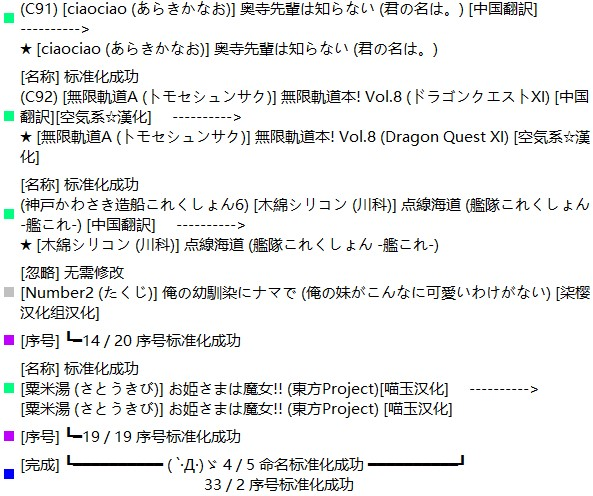
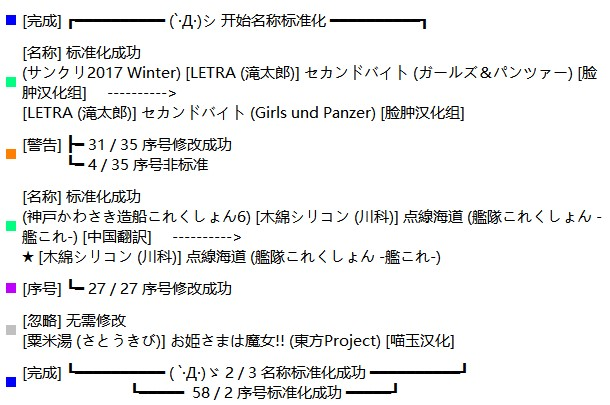
更新文档

Changed region(s): [[0.0, 0.0, 1.0, 1.0], [0.7892, 0.7704, 0.9106, 0.8]]

diff --git a/src/file/standardiser.cpp b/src/file/standardiser.cpp
@@ -138,7 +138,7 @@ void Standardiser::revoke()
             if(successFileCnt>0){
                 successDirFileCnt+=1;
                 successFileCnts+=successFileCnt;
-                filelog = QString::fromLocal8Bit("%3\n         ┗━ %1 / %2 序号撤销成功")
+                filelog = QString::fromLocal8Bit("%3\n           ┗━ %1 / %2 序号撤销成功")
                         .arg(successFileCnt).arg(fileCnt).arg(QFileInfo(originDirs[i]).fileName());
             }
         }
@@ -338,7 +338,7 @@ int Standardiser::fileStandard(const QStringList &files)
         if (warningCnt>0) {
             if(!log.isEmpty()){
                 log.replace(QString::fromLocal8Bit("┗━"),QString::fromLocal8Bit("┣━"));
-                log+="\n                   ";
+                log+="\n           ";
             }
             log += QString::fromLocal8Bit("┗━ %1 / %2 序号非标准")
                     .arg(warningCnt).arg(files.length());

diff --git a/src/QSimpleUpdater/src/Downloader.cpp b/src/QSimpleUpdater/src/Downloader.cpp
@@ -111,8 +111,6 @@ void Downloader::setUrlId (const QString& url)
  */
 void Downloader::startDownload (const QUrl& url)
 {
-    m_downloadDir.mkdir(".");
-
     /* Reset UI */
     m_ui->progressBar->setValue (0);
     m_ui->stopButton->setText (tr ("Stop"));
@@ -188,8 +186,14 @@ void Downloader::finished()
  */
 void Downloader::openDownload()
 {
-    if (!m_fileName.isEmpty())
-        QDesktopServices::openUrl(QUrl::fromLocalFile(m_downloadDir.absolutePath()));
+    if (!m_fileName.isEmpty()){
+        QDesktopServices::openUrl(QUrl(m_downloadDir.absolutePath(), QUrl::TolerantMode));
+//        QString filePath = m_downloadDir.absoluteFilePath( m_fileName);
+//        filePath.replace("/","\\");
+//        QStringList args;
+//        args << "/select," << QDir::toNativeSeparators(filePath);
+//        QProcess::startDetached("explorer", args);
+    }
     else {
         QMessageBox::critical (this,
                                tr ("Error"),

diff --git a/src/QSimpleUpdater/src/QSimpleUpdater.cpp b/src/QSimpleUpdater/src/QSimpleUpdater.cpp
@@ -414,10 +414,10 @@ Updater* QSimpleUpdater::getUpdater (const QString& url) const
         URLS.append (url);
         UPDATERS.append (updater);
 
-        connect (updater, SIGNAL (haveUpdate  ()),
-                 this,    SIGNAL (haveUpdate  ()));
-        connect (updater, SIGNAL (quitNow  ()),
-                 this,    SIGNAL (quitNow  ()));
+        connect (updater, SIGNAL (haveUpdate    ()),
+                 this,    SIGNAL (haveUpdate    ()));
+        connect (updater, SIGNAL (quitNow   ()),
+                 this,    SIGNAL (quitNow   ()));
         connect (updater, SIGNAL (checkingFinished  (QString)),
                  this,    SIGNAL (checkingFinished  (QString)));
         connect (updater, SIGNAL (downloadFinished  (QString, QString)),

diff --git a/src/setting/setting.cpp b/src/setting/setting.cpp
@@ -33,8 +33,8 @@ void Setting::loadSetting()
 {
     QSettings settings("config.ini",QSettings::IniFormat);
     settings.setIniCodec("UTF-8");
-    ORIGIN_PATH=settings.value("ORIGIN_PATH", "E:/Temporary/1Check/doujin").toString();
-    TARGET_PATH=settings.value("TARGET_PATH", QString::fromLocal8Bit("E:/Temporary/新建文件夹")).toString();
+    ORIGIN_PATH=settings.value("ORIGIN_PATH", "D:/path/to/origin").toString();
+    TARGET_PATH=settings.value("TARGET_PATH", "D:/path/to/target").toString();
     PROCESS_DELAY=settings.value("PROCESS_DELAY", 5).toInt();
     INDEX_FIX=settings.value("INDEX_FIX", true).toBool();
     PARODY_MAP=settings.value("PARODY_MAP", true).toBool();

diff --git a/src/QSimpleUpdater/src/Updater.cpp b/src/QSimpleUpdater/src/Updater.cpp
@@ -367,7 +367,7 @@ void Updater::setMandatoryUpdate(const bool mandatory_update)
 
 void Updater::doUpdates()
 {
-    setUpdateAvailable (compare (latestVersion(), moduleVersion()));
+    setUpdateAvailable (true);
     emit checkingFinished (url());
 }
 /**
@@ -421,7 +421,9 @@ void Updater::onReply (QNetworkReply* reply)
         m_mandatoryUpdate = platform.value ("mandatory-update").toBool();
 
     /* Compare latest and current version */
-    emit haveUpdate();
+    if (compare (latestVersion(), moduleVersion())) {
+        emit haveUpdate();
+    }
 }
 
 /**

diff --git a/README.md b/README.md
@@ -28,15 +28,13 @@ DoujinFix 是一款基于 Qt 的批量整理同人志的软件，包括同人志
     
     待处理的多个同人志的文件夹。该文件夹应当形如如下结构：
 
-        E:/Temporary/test/1
+        D:/path/to/origin
         ├── (例大祭2) [アンニュイ赤蛸 (たこ)] 二色蝶 (東方Project)
         |   ├── 001.jpg
-        |   ├── 002.jpg
-        |   └── ...
-        ├── [楓牙] せつない想い
-        |   ├── 001.jpg
-        |   ├── 002.jpg
-        |   └── ...
+        |   └── 002.png
+        └── [楓牙] せつない想い
+            ├── 001.jpg
+            └── 002.png
 
 2. 执行算法
 
@@ -53,11 +51,11 @@ DoujinFix 是一款基于 Qt 的批量整理同人志的软件，包括同人志
     所有文件夹的信息将显示在界面右侧。每条处理结果将包含：处理标示、原始名称、标准名称等信息。最后将进行结果总结，显示处理总数。
 
     用户请关注段首的处理标示，然后进行后续工作。
-    - 灰色：可忽略。名称已经标准。
-    - 绿色：处理正常。简要检查即可。
-    - 紫色：序号优化信息。简要检查即可。
-    - 橙色：处理异常。原因可能为包含非法字符、非常见命名格式、文件中途变动。请手动修改文件名称。
-    - 蓝色：结果总结。简要检查即可。
+    - 灰色：名称已经标准。
+    - 绿色：名称标准化处理正常。
+    - 紫色：序号优化正常。
+    - 橙色：处理异常。在名称修改中，原因可能为包含非法字符、非常见命名格式、文件中途变动等，请手动修改文件名称。在序号修改中，代表无法优化，请手动检查序号是否需要修改。
+    - 蓝色：结果总结。
 
     如果对结果不满意，可以点击第2步中的“撤销”按钮进行撤销。
 
